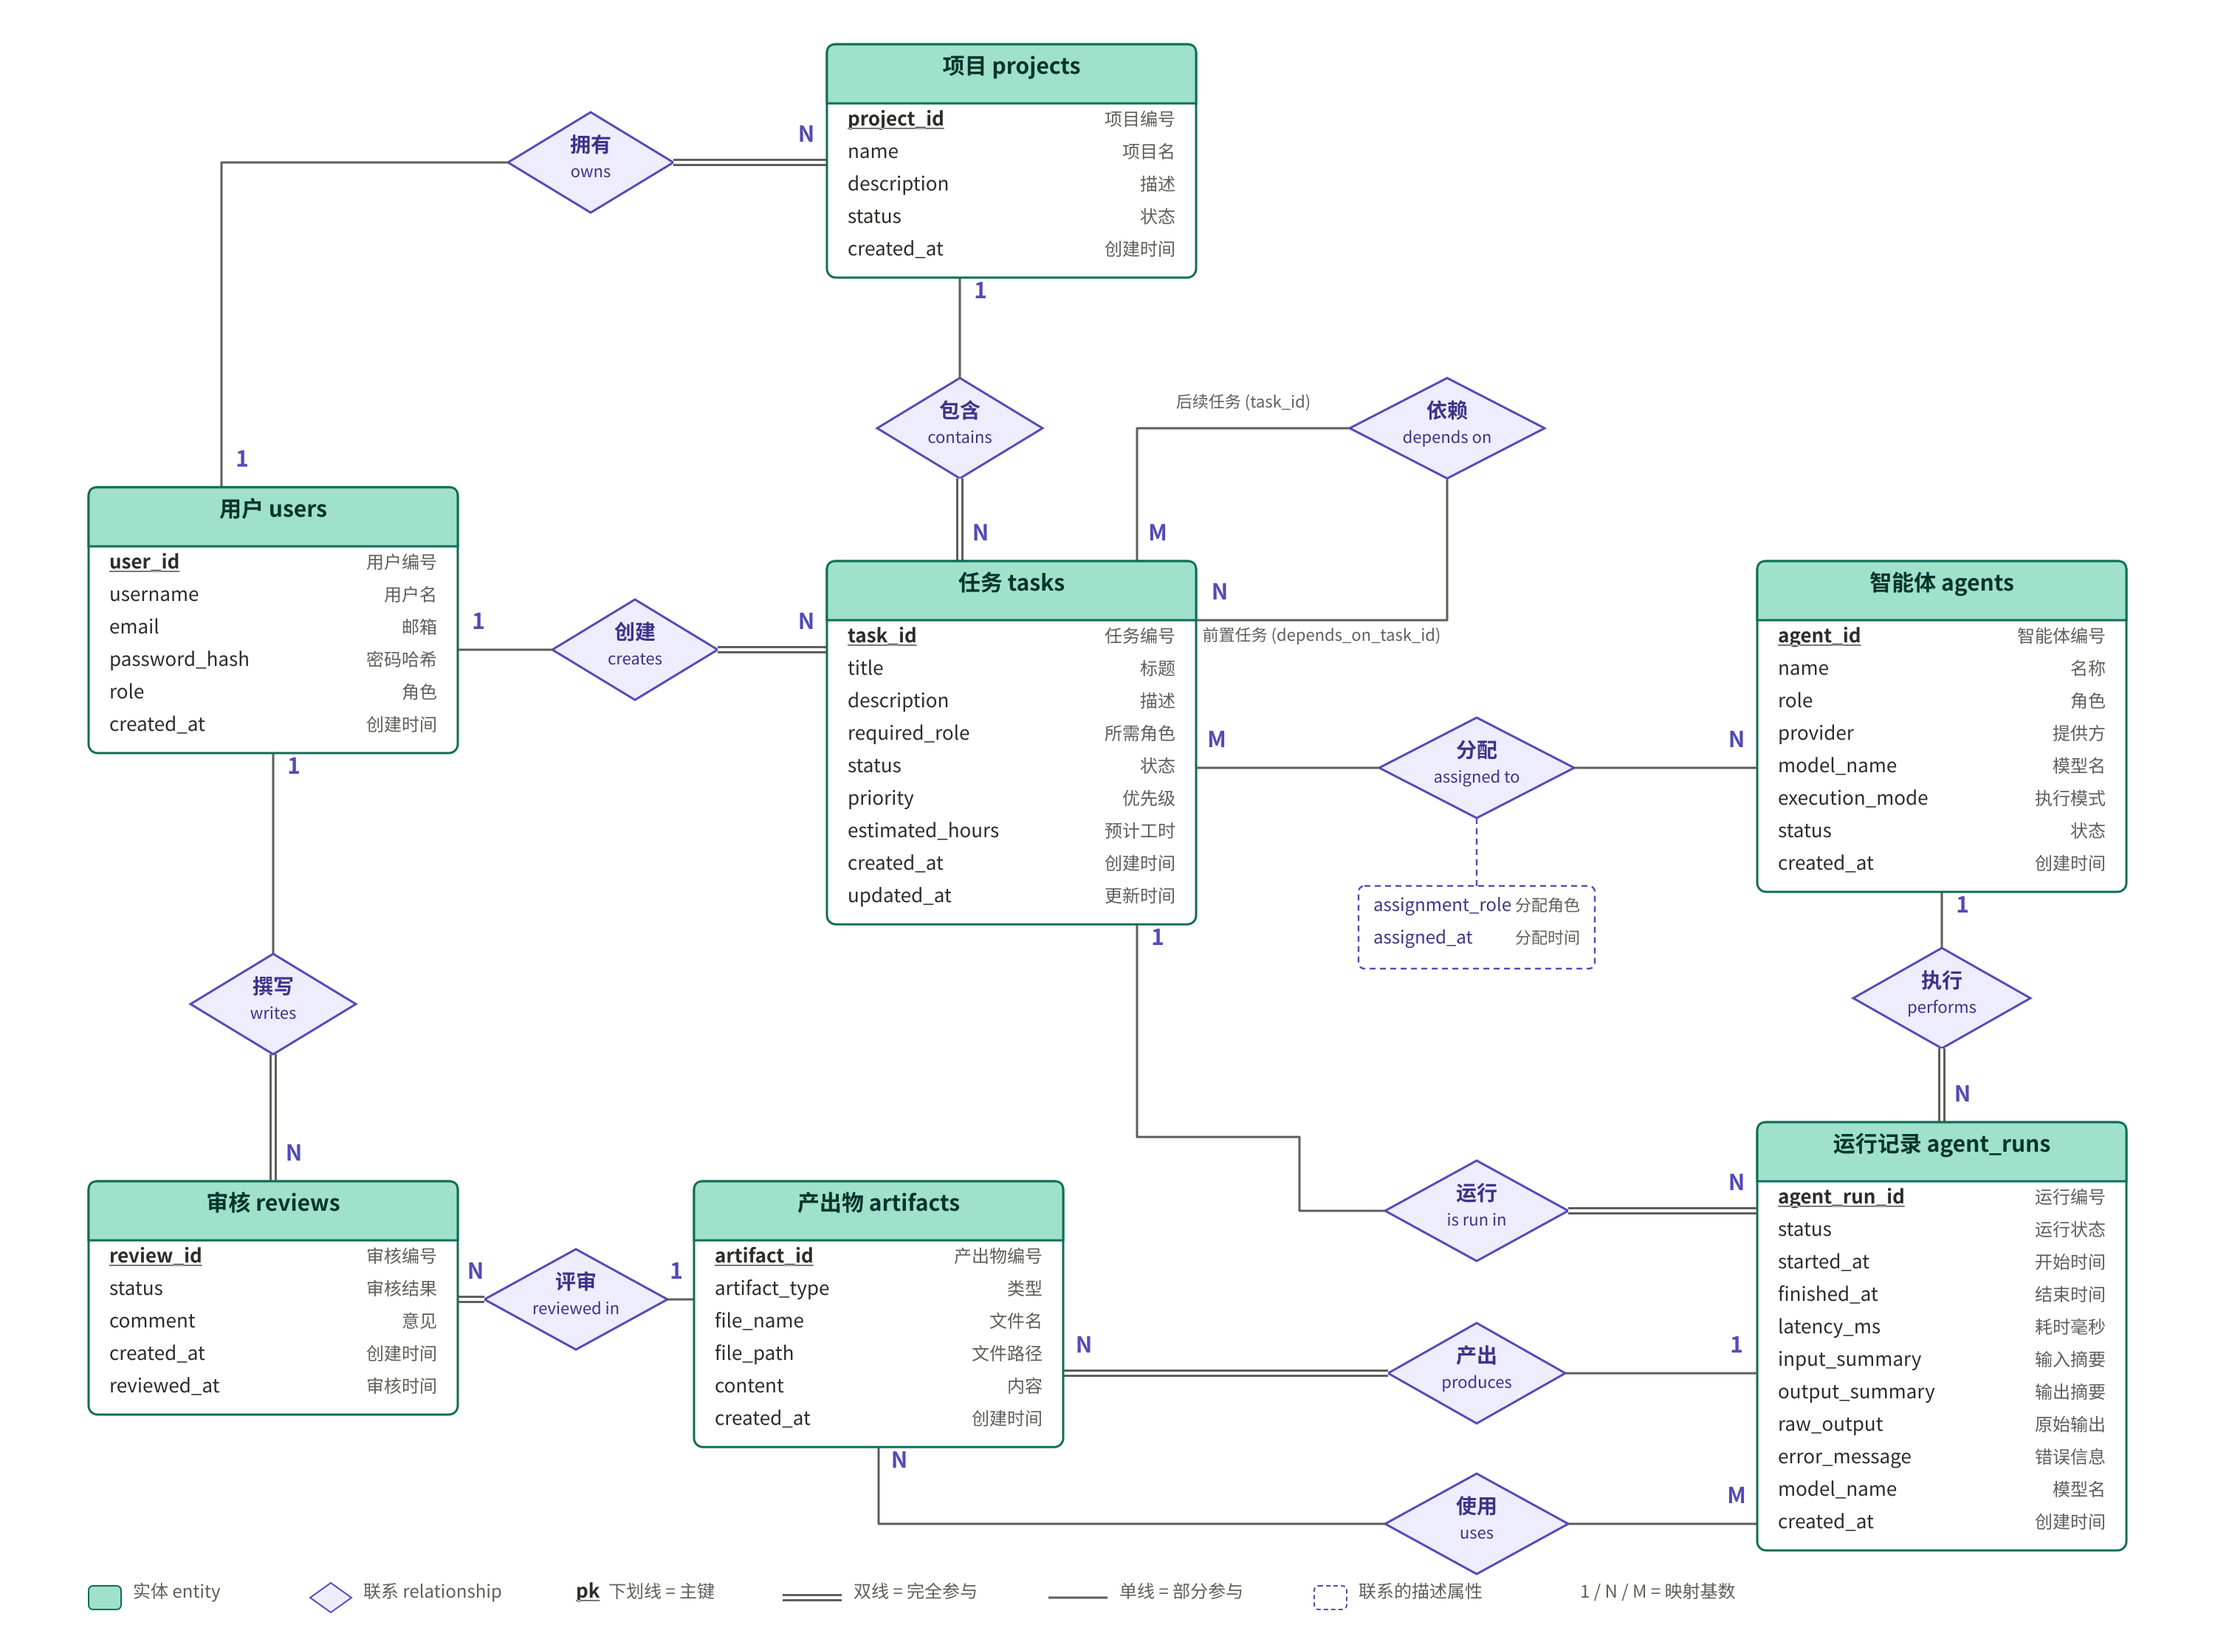
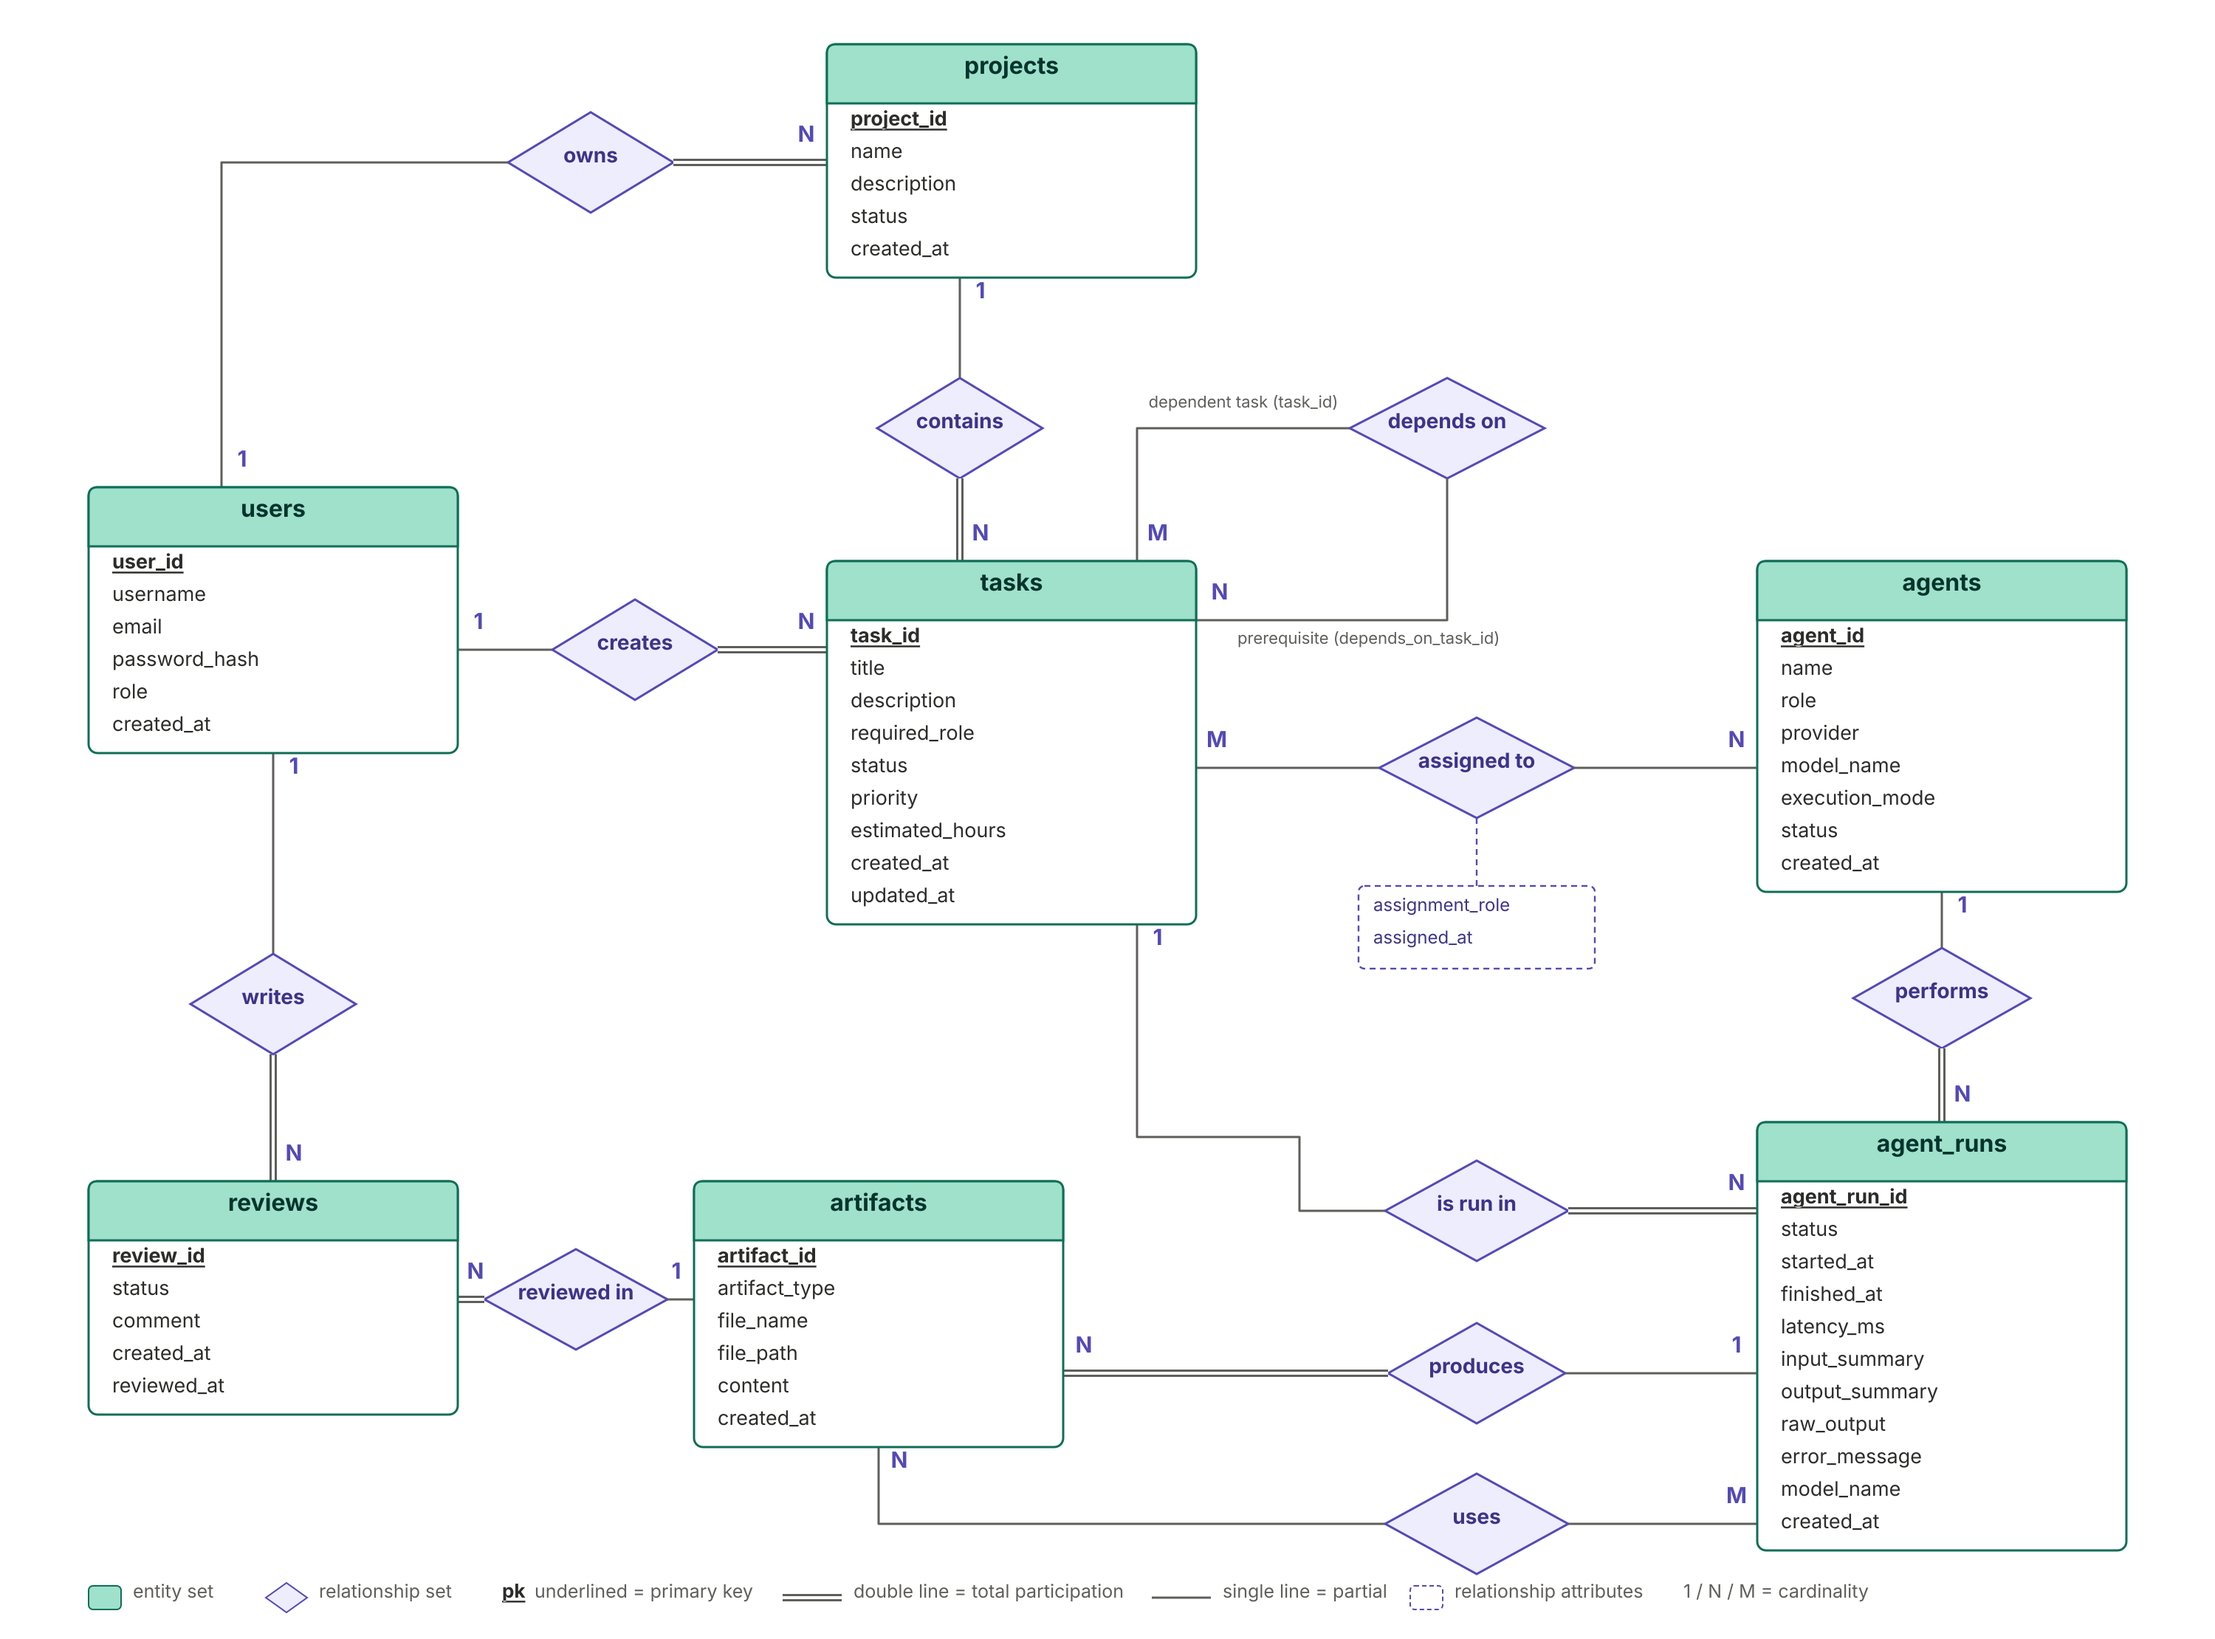
Make the Chen ER diagram English-only
Entity headers, relationship diamonds, role labels and the legend now use
English only, and docs/ER_DIAGRAM.md drops the Chinese names.

Claude-Session: https://claude.ai/code/session_01NncDK2C7YVySoydFFPDxiX

diff --git a/docs/ER_DIAGRAM.md b/docs/ER_DIAGRAM.md
@@ -19,38 +19,38 @@ Foreign keys are **not** listed inside the entities: in the conceptual model a l
 
 | Entity | Primary key |
 |---|---|
-| 用户 `users` | `user_id` |
-| 项目 `projects` | `project_id` |
-| 任务 `tasks` | `task_id` |
-| 智能体 `agents` | `agent_id` |
-| 运行记录 `agent_runs` | `agent_run_id` |
-| 产出物 `artifacts` | `artifact_id` |
-| 审核 `reviews` | `review_id` |
+| `users` | `user_id` |
+| `projects` | `project_id` |
+| `tasks` | `task_id` |
+| `agents` | `agent_id` |
+| `agent_runs` | `agent_run_id` |
+| `artifacts` | `artifact_id` |
+| `reviews` | `review_id` |
 
 ### Relationship sets
 
 | Relationship | Between | Cardinality | Participation |
 |---|---|---|---|
-| 拥有 owns | users — projects | 1 : N | every project has an owner (total) |
-| 创建 creates | users — tasks | 1 : N | every task has a creator (total) |
-| 包含 contains | projects — tasks | 1 : N | every task belongs to a project (total) |
-| 依赖 depends on | tasks — tasks (recursive) | M : N | partial on both sides |
-| 分配 assigned to | tasks — agents | M : N, attributes `assignment_role`, `assigned_at` | partial on both sides; a task has at most one `PRIMARY` agent |
-| 运行 is run in | tasks — agent_runs | 1 : N | every run belongs to a task (total) |
-| 执行 performs | agents — agent_runs | 1 : N | every run is performed by an agent (total) |
-| 产出 produces | agent_runs — artifacts | 1 : N | every artifact comes from a run (total) |
-| 使用 uses | agent_runs — artifacts | M : N | partial on both sides; a run uses the approved artifacts of its prerequisite tasks |
-| 评审 reviewed in | artifacts — reviews | 1 : N | every review is about an artifact (total) |
-| 撰写 writes | users — reviews | 1 : N | every review has a reviewer (total) |
+| owns | users — projects | 1 : N | every project has an owner (total) |
+| creates | users — tasks | 1 : N | every task has a creator (total) |
+| contains | projects — tasks | 1 : N | every task belongs to a project (total) |
+| depends on | tasks — tasks (recursive) | M : N | partial on both sides |
+| assigned to | tasks — agents | M : N, attributes `assignment_role`, `assigned_at` | partial on both sides; a task has at most one `PRIMARY` agent |
+| is run in | tasks — agent_runs | 1 : N | every run belongs to a task (total) |
+| performs | agents — agent_runs | 1 : N | every run is performed by an agent (total) |
+| produces | agent_runs — artifacts | 1 : N | every artifact comes from a run (total) |
+| uses | agent_runs — artifacts | M : N | partial on both sides; a run uses the approved artifacts of its prerequisite tasks |
+| reviewed in | artifacts — reviews | 1 : N | every review is about an artifact (total) |
+| writes | users — reviews | 1 : N | every review has a reviewer (total) |
 
 ## 2. Mapping to the relational schema
 
 - Each entity set becomes a table whose primary key is `<entity>_id`.
 - Each **1 : N** relationship becomes a foreign key on the N side, named after the key it references where possible (`tasks.project_id → projects.project_id`, `agent_runs.task_id → tasks.task_id`). Role names are used where the same entity appears with a specific role: `projects.owner_id`, `tasks.created_by` and `reviews.reviewer_id` all reference `users.user_id`.
 - Each **M : N** relationship becomes its own table whose primary key is the combination of the participating keys:
-  - 依赖 → `task_dependencies(task_id, depends_on_task_id)`, both referencing `tasks.task_id`; a `CHECK` forbids a task depending on itself.
-  - 分配 → `task_assignments(task_id, agent_id, assignment_role, assigned_at)`, primary key `(task_id, agent_id, assignment_role)`; the descriptive attributes of the relationship become ordinary columns. A functional unique index `uk_one_primary_per_task` on `CASE WHEN assignment_role = 'PRIMARY' THEN task_id END` allows at most one `PRIMARY` agent per task (other roles produce `NULL`, which a unique index ignores).
-  - 使用 → `run_inputs(agent_run_id, artifact_id)`, primary key `(agent_run_id, artifact_id)`.
+  - depends on → `task_dependencies(task_id, depends_on_task_id)`, both referencing `tasks.task_id`; a `CHECK` forbids a task depending on itself.
+  - assigned to → `task_assignments(task_id, agent_id, assignment_role, assigned_at)`, primary key `(task_id, agent_id, assignment_role)`; the descriptive attributes of the relationship become ordinary columns. A functional unique index `uk_one_primary_per_task` on `CASE WHEN assignment_role = 'PRIMARY' THEN task_id END` allows at most one `PRIMARY` agent per task (other roles produce `NULL`, which a unique index ignores).
+  - uses → `run_inputs(agent_run_id, artifact_id)`, primary key `(agent_run_id, artifact_id)`.
 - An artifact's task is not stored on `artifacts`; it is derived through its run (`artifacts.agent_run_id → agent_runs.task_id`). Storing it again would be redundant and could disagree with the run.
 
 ```mermaid
